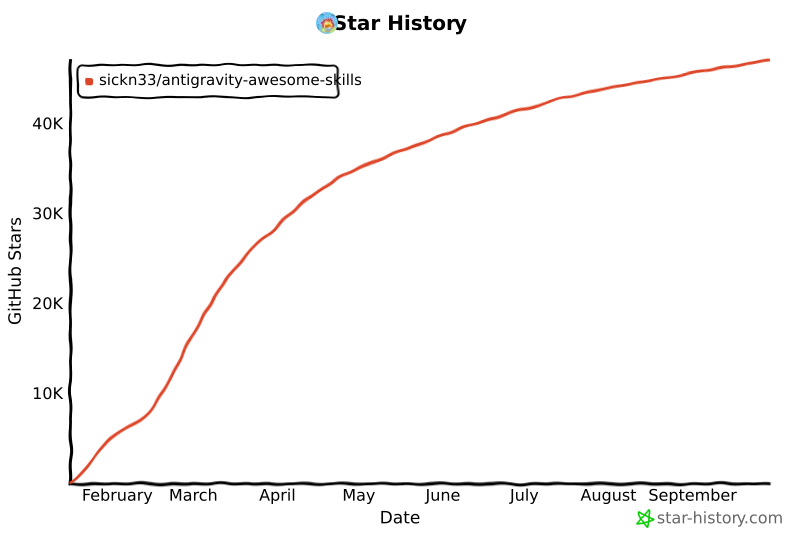
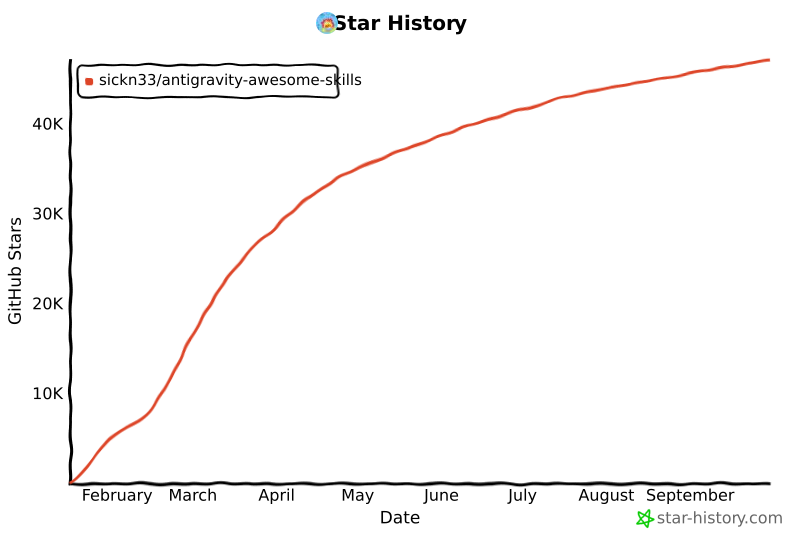
chore: update star history chart

diff --git a/README.md b/README.md
@@ -478,14 +478,14 @@ We officially thank the following contributors for their help in making this rep
 ## Star History
 
 <a href="https://www.star-history.com/#sickn33/antigravity-awesome-skills&type=date&legend=top-left">
- <img alt="Star History Chart" src="https://api.star-history.com/svg?repos=sickn33/antigravity-awesome-skills&type=date&legend=top-left&cache_bust=202609301128" />
+ <img alt="Star History Chart" src="https://api.star-history.com/svg?repos=sickn33/antigravity-awesome-skills&type=date&legend=top-left&cache_bust=202610011156" />
 </a>
 
 <a href="https://www.star-history.com/sickn33/antigravity-awesome-skills">
  <picture>
-   <source media="(prefers-color-scheme: dark)" srcset="https://api.star-history.com/chart?repos=sickn33/antigravity-awesome-skills&style=landscape1&theme=dark&cache_bust=202609301128" />
-   <source media="(prefers-color-scheme: light)" srcset="https://api.star-history.com/chart?repos=sickn33/antigravity-awesome-skills&style=landscape1&cache_bust=202609301128" />
-   <img alt="Star History Chart" src="https://api.star-history.com/chart?repos=sickn33/antigravity-awesome-skills&style=landscape1&cache_bust=202609301128" />
+   <source media="(prefers-color-scheme: dark)" srcset="https://api.star-history.com/chart?repos=sickn33/antigravity-awesome-skills&style=landscape1&theme=dark&cache_bust=202610011156" />
+   <source media="(prefers-color-scheme: light)" srcset="https://api.star-history.com/chart?repos=sickn33/antigravity-awesome-skills&style=landscape1&cache_bust=202610011156" />
+   <img alt="Star History Chart" src="https://api.star-history.com/chart?repos=sickn33/antigravity-awesome-skills&style=landscape1&cache_bust=202610011156" />
  </picture>
 </a>
 
